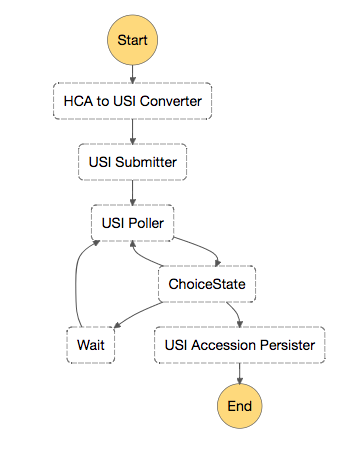
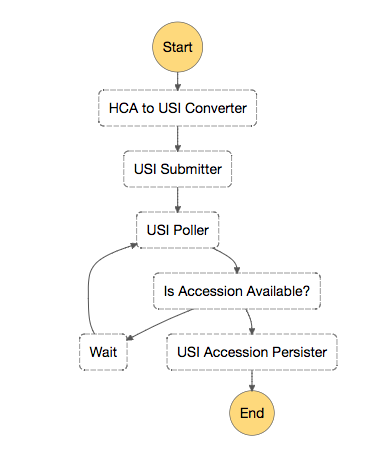
added state json

Changed region(s): [[0.1449, 0.0307, 0.9565, 0.9518], [0.8406, 0.5833, 0.8696, 0.614], [0.1449, 0.1842, 0.1739, 0.2149]]

diff --git a/pages/components/ingest-archiver.md b/pages/components/ingest-archiver.md
@@ -1,14 +1,68 @@
+---
+layout: default
+title: Ingest Archiver
+---
 # 5. [Ingest Archiver](https://github.com/HumanCellAtlas/ingest-archiver)
 
-* Performs submission to non-HCA archives. retreiving and storing accessions where available.
+Performs submission to non-HCA archives. retreiving and storing accessions where available.
+
+### Code Status
 
 [![Ingest Archiver Build Status](https://travis-ci.org/HumanCellAtlas/ingest-archiver.svg?branch=master)](https://travis-ci.org/HumanCellAtlas/ingest-archiver)
 [![Maintainability](https://api.codeclimate.com/v1/badges/8ce423001595db4e6de7/maintainability)](https://codeclimate.com/github/HumanCellAtlas/ingest-archiver/maintainability)
 [![Test Coverage](https://api.codeclimate.com/v1/badges/8ce423001595db4e6de7/test_coverage)](https://codeclimate.com/github/HumanCellAtlas/ingest-archiver/test_coverage)
 
-## State Transition
+## 5.0 State Transition
 
 ![alt text](../../../images/ingest-accessioner-states.png "Ingest Archiver State Transition")
+
+
+### ASL
+```json
+{
+  "Comment": "Performs submission to non-HCA archives. retreiving and storint accessions where available.",
+  "StartAt": "HCA to USI Converter",
+  "States": {
+    "HCA to USI Converter": {
+      "Type": "Pass",
+      "Next": "USI Submitter"
+    },
+    "USI Submitter": {
+      "Type": "Pass",
+      "Next": "USI Poller"
+    },
+    "USI Poller": {
+      "Type": "Pass",
+      "Next": "Is Accession Available?"
+    },
+    "Wait": {
+      "Type": "Wait",
+      "Seconds": 10,
+      "Next": "USI Poller"
+    },
+    "Is Accession Available?": {
+      "Type": "Choice",
+      "Choices": [
+        {
+          "Variable": "$.state",
+          "StringEquals": "pending",
+          "Next": "Wait"
+        },
+        {
+          "Variable": "$.state",
+          "NumericEquals": "complete",
+          "Next": "USI Accession Persister"
+        }
+      ],
+      "Default": "Wait"
+    },
+    "USI Accession Persister": {
+      "Type": "Pass",
+      "End": true
+    }
+  }
+}
+```
 
 ## 5.1 [HCA to USI Converter](https://github.com/HumanCellAtlas/ingest-archiver/blob/master/archiver/converter.py)
 Takes HCA sample JSON and returns USI sample JSON
@@ -140,7 +194,7 @@ Polls USI for the accession of a sample
     * [USI Submission ID](../../data/#usi-submission-id)
     * [Biosamples Accession](../../data/#biosamples-accession)
 * __Output Examples__
-    * Waiting for accession
+    * Pending (Waiting for accession)
 ```json
 {
 	"submission-uuid": "a8797226-ebd3-45ff-94bf-ed03292b532e",
@@ -149,7 +203,7 @@ Polls USI for the accession of a sample
     "state": "pending"
 }
 ```
-    * Accession available
+    * Complete (Accession available)
 ```json
 {
     "submission-uuid": "a8797226-ebd3-45ff-94bf-ed03292b532e",
